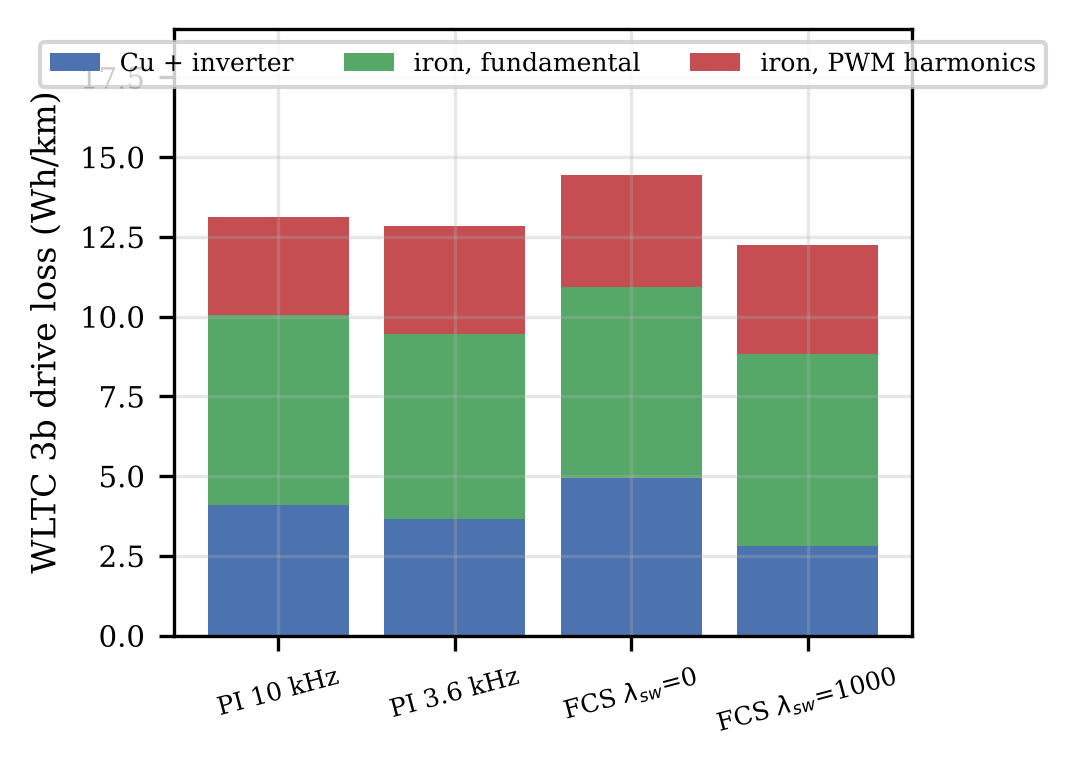
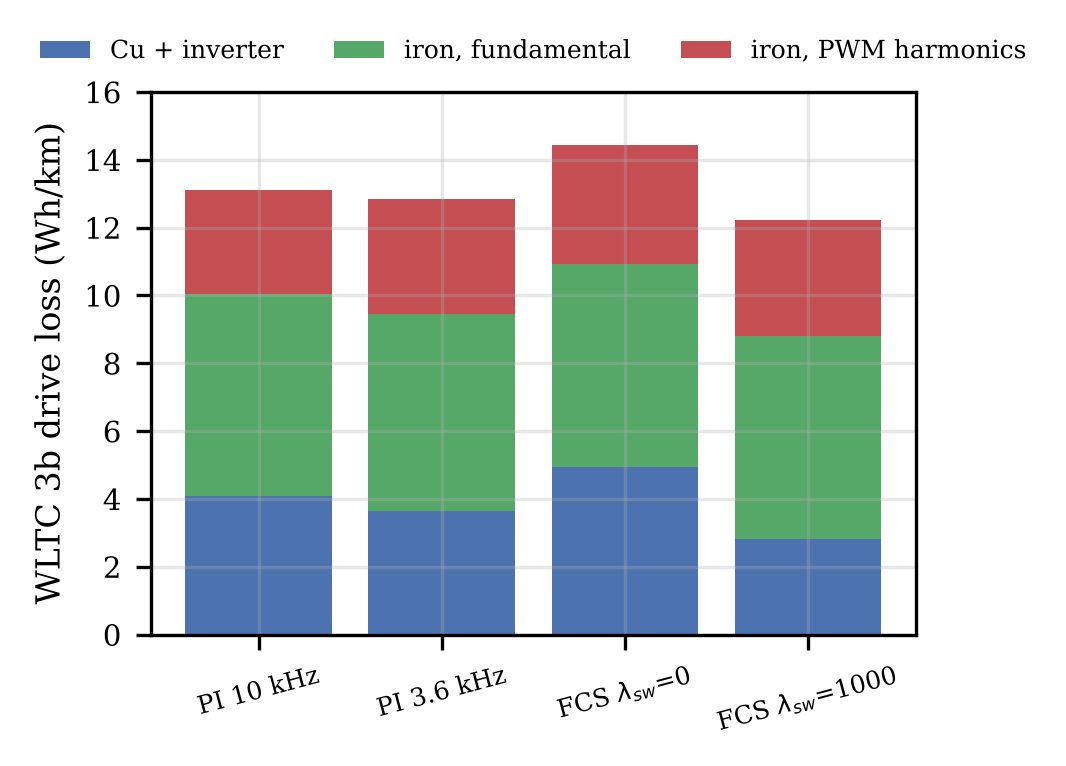
Fig12: move legend above axes to avoid overlap with y-axis label
Claude-Session: https://claude.ai/code/session_01GB9HzZrEAzL8VqvW6ob9US

diff --git a/scripts/reproduce.py b/scripts/reproduce.py
@@ -581,8 +581,8 @@ for key, col, nm in [("loss_noiron_Wh_per_km", "#4c72b0", "Cu + inverter"), ("ir
     ax.bar(short, v, bottom=bot, color=col, label=nm)
     bot += v
 ax.set_ylabel("WLTC 3b drive loss (Wh/km)")
-ax.set_ylim(0, 19)
-ax.legend(fontsize=6, ncol=3, loc="upper center")
+ax.set_ylim(0, 16)
+ax.legend(fontsize=6, ncol=3, loc="lower center", bbox_to_anchor=(0.5, 1.01), frameon=False)
 plt.setp(ax.get_xticklabels(), rotation=15, fontsize=6)
 fig.tight_layout()
 P.save(fig, FIG, "Fig12_WLTC_loss_breakdown_with_iron")
